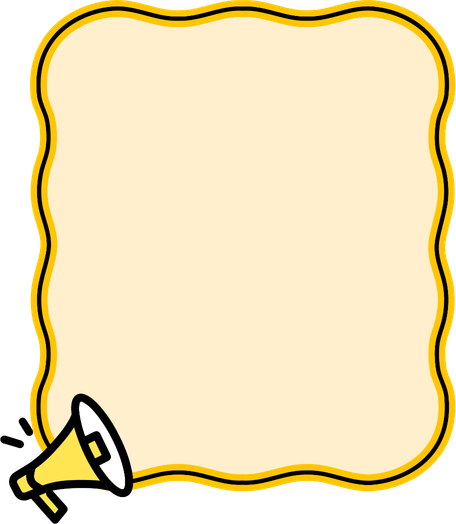
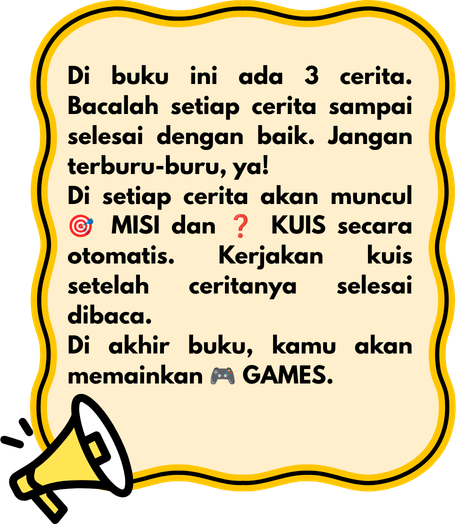
feat(page-05): use direct template card with baked-in text and remove html text overlay

diff --git a/src/style.css b/src/style.css
@@ -1189,58 +1189,6 @@ body {
   filter: drop-shadow(0 10px 24px rgba(18, 48, 86, 0.2));
 }
 
-.p5-note-content {
-  position: absolute;
-  top: 0;
-  left: 0;
-  width: 100%;
-  height: 100%;
-  box-sizing: border-box;
-  padding: 30% 6% 8% 11%;
-  display: flex;
-  flex-direction: column;
-  justify-content: flex-start;
-  pointer-events: auto;
-}
-
-.p5-note-p {
-  font-family: var(--font-title);
-  font-weight: 800;
-  font-size: clamp(0.68rem, 2.0cqi, 1.02rem);
-  line-height: 1.4;
-  color: #171713;
-  letter-spacing: 0.01em;
-  text-align: left;
-  margin: 0;
-  padding: 0;
-  user-select: text;
-  -webkit-user-select: text;
-}
-
-.p5-note-p + .p5-note-p {
-  margin-top: clamp(12px, 2.6cqi, 20px);
-}
-
-.p5-keyword {
-  display: inline-flex;
-  align-items: center;
-  gap: 3px;
-  font-weight: 800;
-  letter-spacing: 0.02em;
-}
-
-.p5-keyword--misi {
-  color: #b0491a;
-}
-
-.p5-keyword--kuis {
-  color: #bf302e;
-}
-
-.p5-keyword--games {
-  color: #171713;
-}
-
 .layer-p5-foliage {
   left: 0;
   bottom: 0;

diff --git a/src/components/pageRenderer.js b/src/components/pageRenderer.js
@@ -423,14 +423,9 @@ function renderPage05(data) {
         <h1 class="sr-only">${title}</h1>
       </div>
 
-      <!-- Layer 12: Template Bingkai Catatan Petunjuk & Isi Teks -->
+      <!-- Layer 12: Template Bingkai Catatan Petunjuk (Termasuk Teks Catatan) -->
       <div class="layer layer-p5-note-wrapper" style="${getCanvaStyle('page05', 'noteCard')}">
-        <img src="${assets.noteCard}" alt="" class="p5-note-frame-img" draggable="false" />
-        <div class="p5-note-content">
-          <p class="p5-note-p">${bodyParagraphs[0]}</p>
-          <p class="p5-note-p">${bodyParagraphs[1]}</p>
-          <p class="p5-note-p">${bodyParagraphs[2]}</p>
-        </div>
+        <img src="${assets.noteCard}" alt="Petunjuk Penggunaan" class="p5-note-frame-img" draggable="false" />
       </div>
 
       <!-- Layer 13: Dedaunan & Semak Depan Bawah (posisi sama seperti halaman sebelumnya) -->
